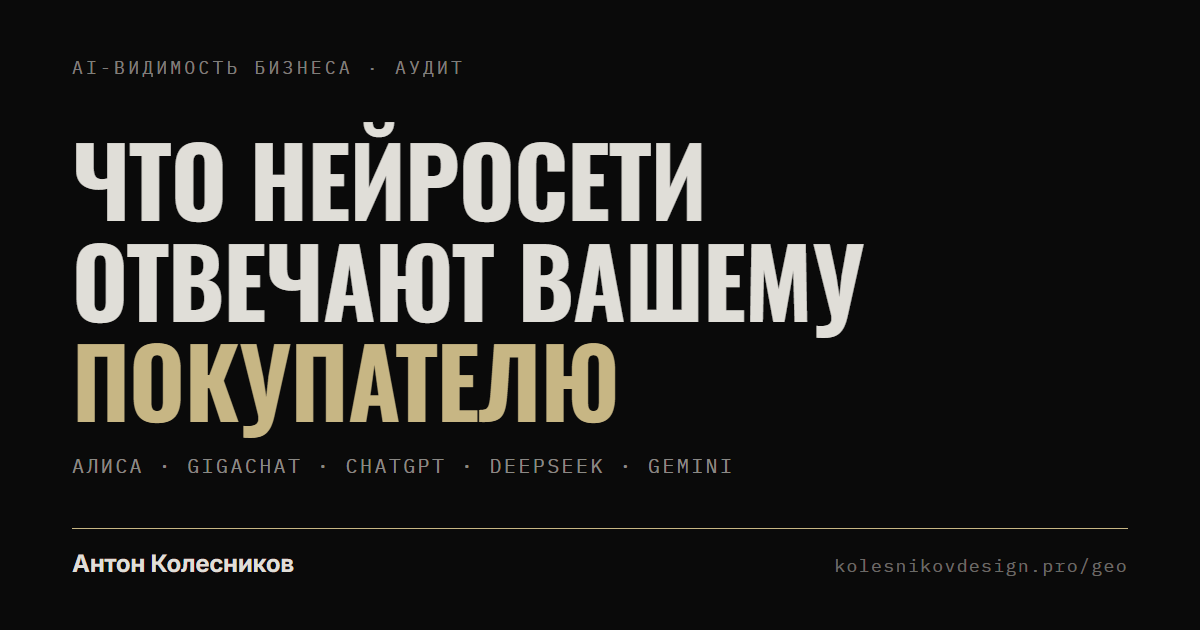
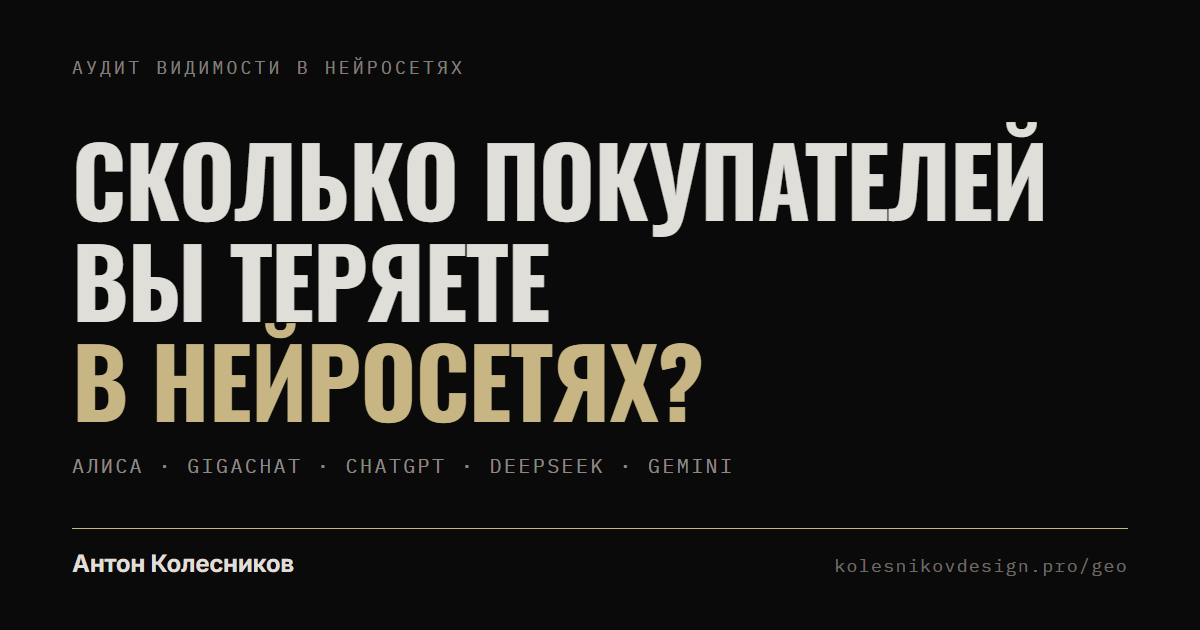
geo: hero headline «Сколько покупателей вы теряете в нейросетях?», kicker «Аудит видимости в нейросетях», OG image updated

Changed region(s): [[0.0617, 0.181, 0.8942, 0.6937], [0.0617, 0.0905, 0.4008, 0.1206]]

diff --git a/src/components/geo/GeoHero.tsx b/src/components/geo/GeoHero.tsx
@@ -77,7 +77,7 @@ export default function GeoHero({ isLifted }: GeoHeroProps) {
         <div className="w-full mt-auto flex flex-col">
           <div className="grid grid-cols-12 w-full gap-4 md:gap-0 mb-6 md:mb-[2vh]">
             <div className="col-span-12 flex flex-col">
-              <p className="text-[3.5vw] md:text-[1vw] opacity-60 mb-1 font-sans">AI-видимость бизнеса · замер и план работ</p>
+              <p className="text-[3.5vw] md:text-[1vw] opacity-60 mb-1 font-sans">Аудит видимости в нейросетях</p>
               <h2 className="text-[8vw] md:text-[3vw] font-sans font-bold leading-tight tracking-tighter">
                 <span className="text-[#e0ded8]">Антон</span> <span className="opacity-40 font-medium">Колесников</span>
               </h2>
@@ -88,7 +88,7 @@ export default function GeoHero({ isLifted }: GeoHeroProps) {
             <div className="col-span-12 md:col-span-8">
               <HighlightWipeHeading
                 as="h1"
-                lines={["ЧТО НЕЙРОСЕТИ", "ОТВЕЧАЮТ ВАШЕМУ", "ПОКУПАТЕЛЮ"]}
+                lines={["СКОЛЬКО ПОКУПАТЕЛЕЙ", "ВЫ ТЕРЯЕТЕ", "В НЕЙРОСЕТЯХ?"]}
                 className="text-[12vw] md:text-[6vw] font-headline text-[#e0ded8] w-full md:w-[110%] -ml-0 md:-ml-1 tracking-tight leading-[0.9]"
                 stagger={0.12}
                 trigger={isLifted}
